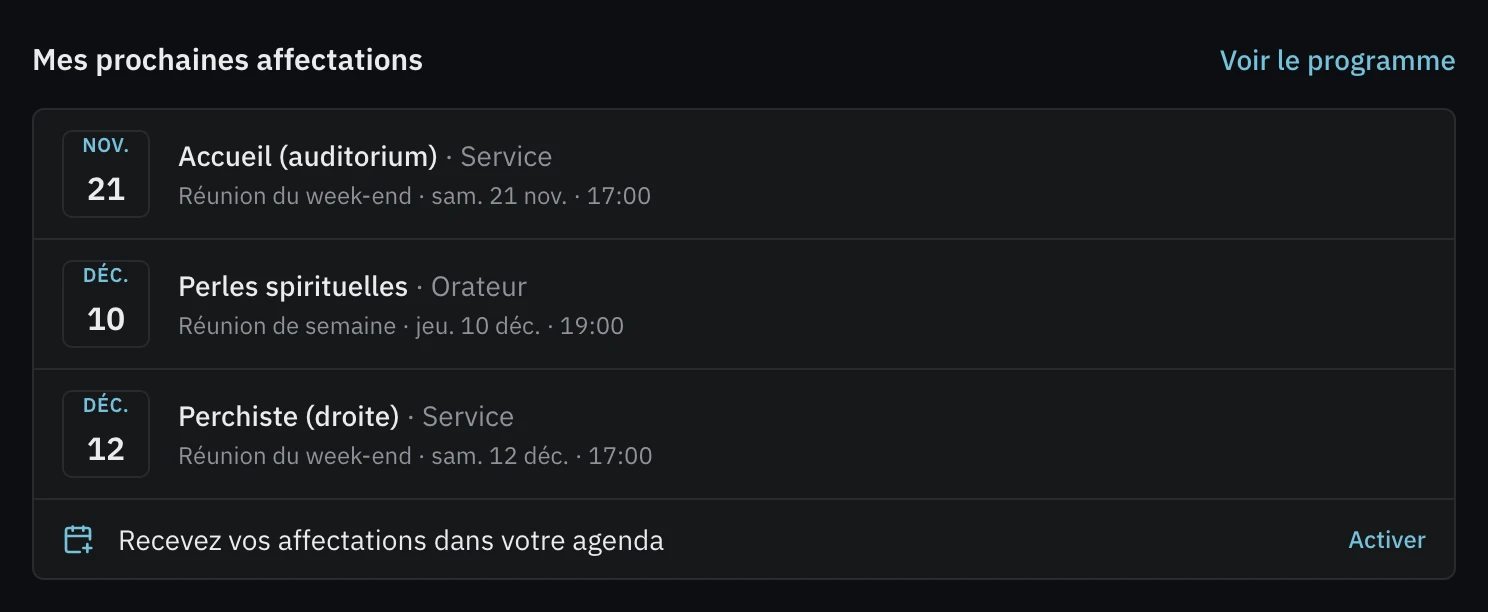
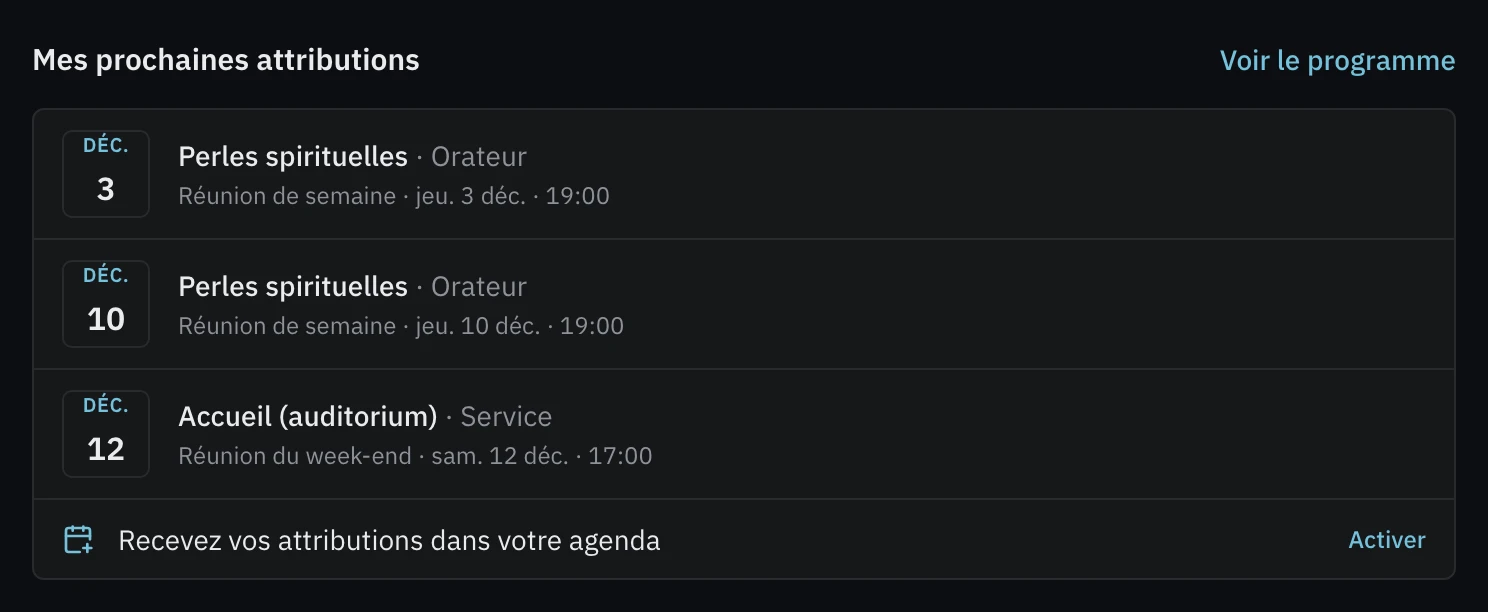
fix(i18n): one French word for an assignment, « attribution » (#622)

diff --git a/app/features/help/content/fr/my-parts.md b/app/features/help/content/fr/my-parts.md
@@ -14,15 +14,15 @@ Vos parties s’affichent dès que le programme de la réunion est publié, vos 
 
 ## Sur l’accueil
 
-Sur **Accueil**, **Mes prochaines affectations** liste vos cinq prochaines parties et services des quatre semaines à venir : la réunion, sa date et, pour une partie à deux, le nom de l’autre personne, pour la préparer ensemble.
+Sur **Accueil**, **Mes prochaines attributions** liste vos cinq prochaines parties et services des quatre semaines à venir : la réunion, sa date et, pour une partie à deux, le nom de l’autre personne, pour la préparer ensemble.
 
-![Mes prochaines affectations sur l’accueil : trois parties et services, chacun avec sa date et sa réunion](capture:programs-my-assignments)
+![Mes prochaines attributions sur l’accueil : trois parties et services, chacun avec sa date et sa réunion](capture:programs-my-assignments)
 
 Cliquez sur une ligne, ou sur **Voir le programme**, pour ouvrir le programme sur le tableau d’affichage.
 
 Quand vous avez une partie à la prochaine réunion, dans les trois jours qui la précèdent, **À traiter** vous la rappelle. Il vous signale aussi une partie qui tombe pendant une absence que vous avez indiquée : prévenez alors le responsable du programme.
 
-**Mes prochaines affectations** n’apparaît pas ? Votre compte n’est relié à aucune fiche de l’assemblée : demandez à un administrateur de le relier.
+**Mes prochaines attributions** n’apparaît pas ? Votre compte n’est relié à aucune fiche de l’assemblée : demandez à un administrateur de le relier.
 
 ## Par e-mail
 

diff --git a/app/features/help/content/fr/absences.md b/app/features/help/content/fr/absences.md
@@ -24,9 +24,9 @@ Déclarez les jours où vous ne serez pas disponible. Les responsables des progr
 
 L’absence apparaît dans la liste, à sa date. Elle est marquée **En cours** pendant la période.
 
-## Affectations pendant une absence
+## Attributions pendant une absence
 
-Si une affectation tombe pendant ces jours, la ligne le signale : le nombre d’affectations, puis, pour chacune, la date et la personne à prévenir. Prévenez cette personne : c’est elle qui décide de la suite.
+Si une attribution tombe pendant ces jours, la ligne le signale : le nombre d’attributions, puis, pour chacune, la date et la personne à prévenir. Prévenez cette personne : c’est elle qui décide de la suite.
 
 ## Supprimer une absence
 
